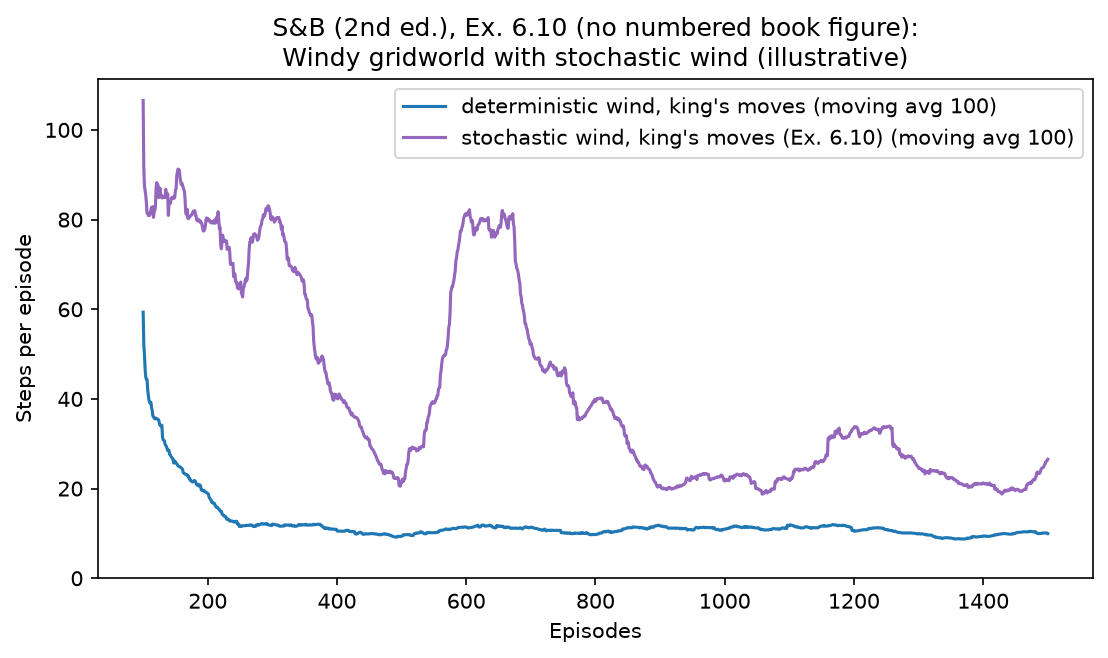
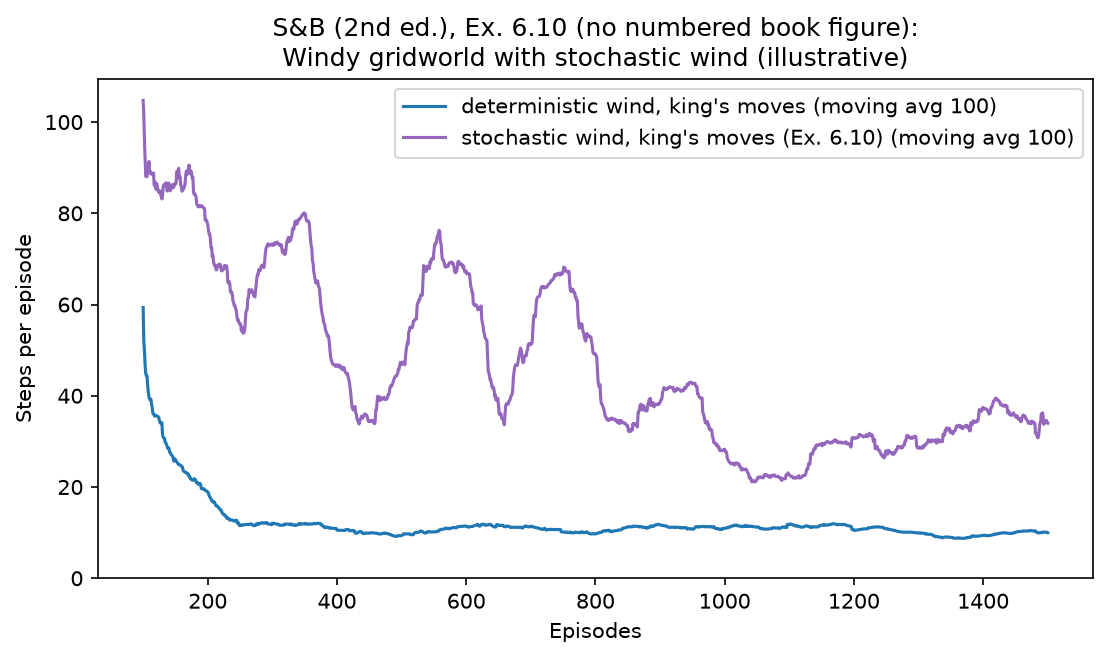
docs: sync README/AUDIT and refresh regenerated figures

diff --git a/AUDIT.md b/AUDIT.md
@@ -26,7 +26,7 @@ API reproduces an algorithm when it only illustrates part of it.
 | Ch 10 figs 10.1–10.5 | Reduced-scale reproductions, incl. n-step semi-gradient Sarsa | `chapter_10/figure_experiments.py`, `chapter_10/figures/generate_figures.py` |
 | Ch 11 figs 11.2/11.6/11.7 | Expected-update Baird-star reproductions (TDC, emphatic TD) | `chapter_11/figure_experiments.py`, `chapter_11/figures/generate_figures.py` |
 | Ch 12 figs 12.3/12.6/12.8/12.10/12.11/12.14 | Reduced-scale reproductions | `chapter_12/figure_experiments.py`, `chapter_12/figures/generate_figures.py` |
-| All chapters | Student-friendly explanation after every exercise answer | `chapter_XX/exercises.md`, `**Explanation (student-friendly).**` markers |
+| All chapters | Canonical five-part exercise answers (hook, numbered equation + glossary, reasoning chain, intuition check, prediction self-check) | `chapter_XX/exercises.md`, `**Hook.**` → `**Check your understanding.**` markers; house style in `STUDENT_ANSWER_TEMPLATE.md` |
 
 ---
 
@@ -120,6 +120,10 @@ Documented per chapter in `chapter_XX/README.md`. Summary:
   tests. A fresh checkout from tracked files only passes the same suite.
 - `python chapter_XX/figures/generate_figures.py` — regenerate a chapter's PNGs.
   Every generator uses absolute paths and is independent of the working directory.
+  All ten generators were rerun after the readability refactor: only
+  `fig_6_10_stochastic_wind.png` and `fig_8_4_policies.png` differ from the
+  committed versions, and both change again on a second identical run — they
+  are unseeded illustrative plots, not regressions.
 - `python -m ruff check .` — clean under the tracked `ruff.toml` (real defects:
   undefined names, unused imports/variables, import order, whitespace). The
   stricter untracked `pyproject.toml` profile is not used for the public repo.

diff --git a/README.md b/README.md
@@ -60,7 +60,10 @@ implemented during the book-alignment work. Exercise writeups in
 `chapter_XX/exercises.md` follow the house style in
 [`STUDENT_ANSWER_TEMPLATE.md`](STUDENT_ANSWER_TEMPLATE.md):
 a conversational hook, a numbered formal equation with a symbol glossary, a
-reasoning chain, an intuition check, and a prediction-style self-check.
+reasoning chain, an intuition check, and a prediction-style self-check. The
+same guide's code standard governs `chapter_XX/solution.py`: one readable
+function per algorithm, comments that explain why loops exist, and named
+constants instead of magic numbers.
 
 ## Chapter renumbering provenance
 
